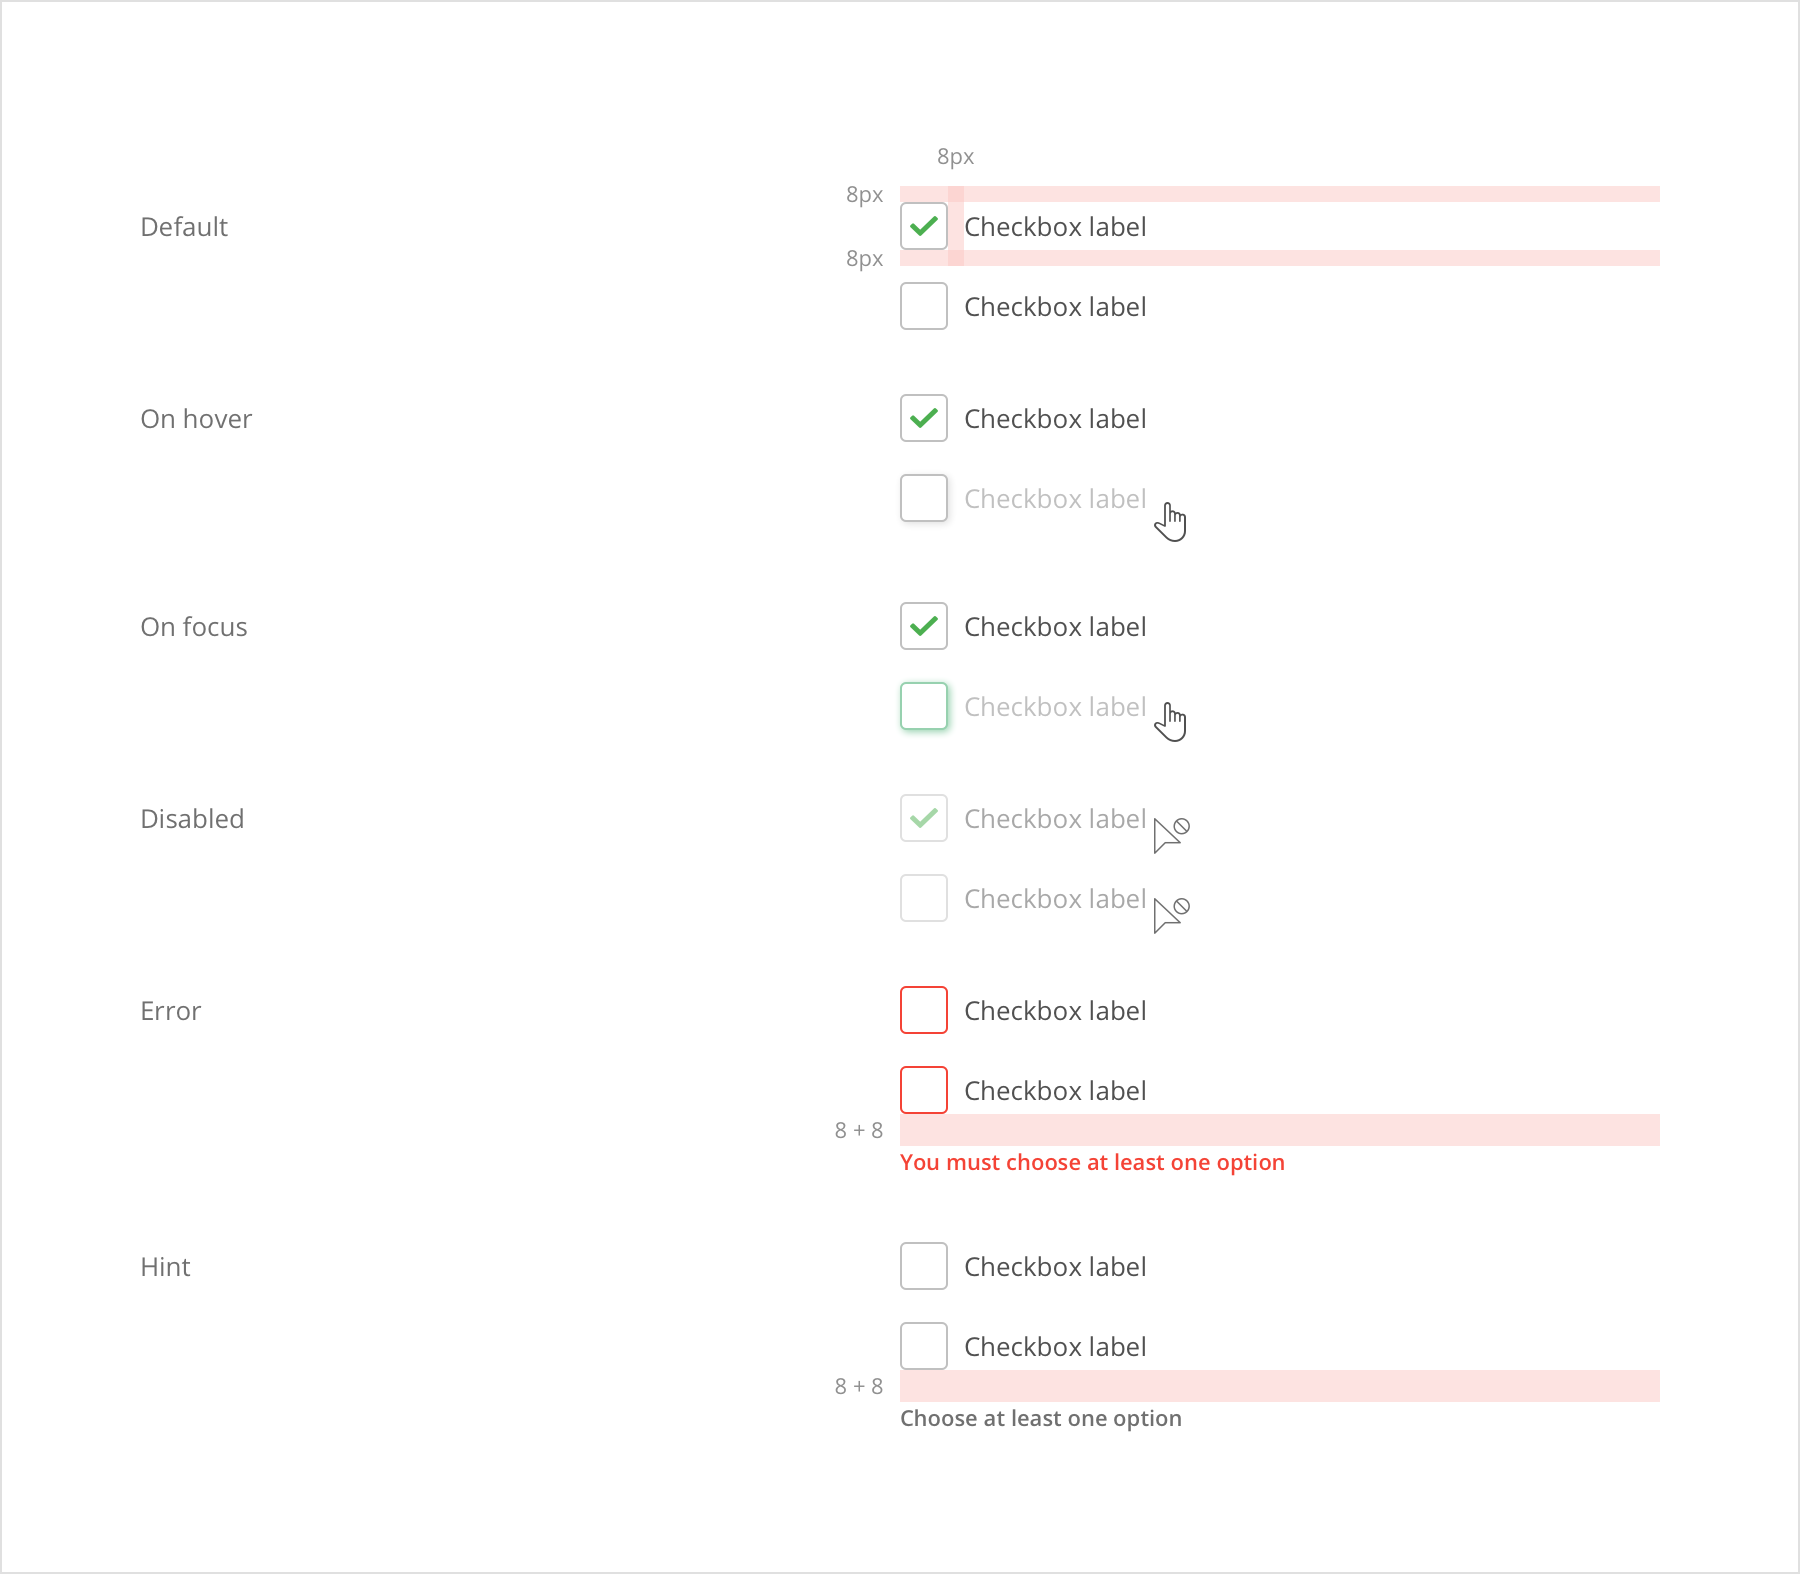
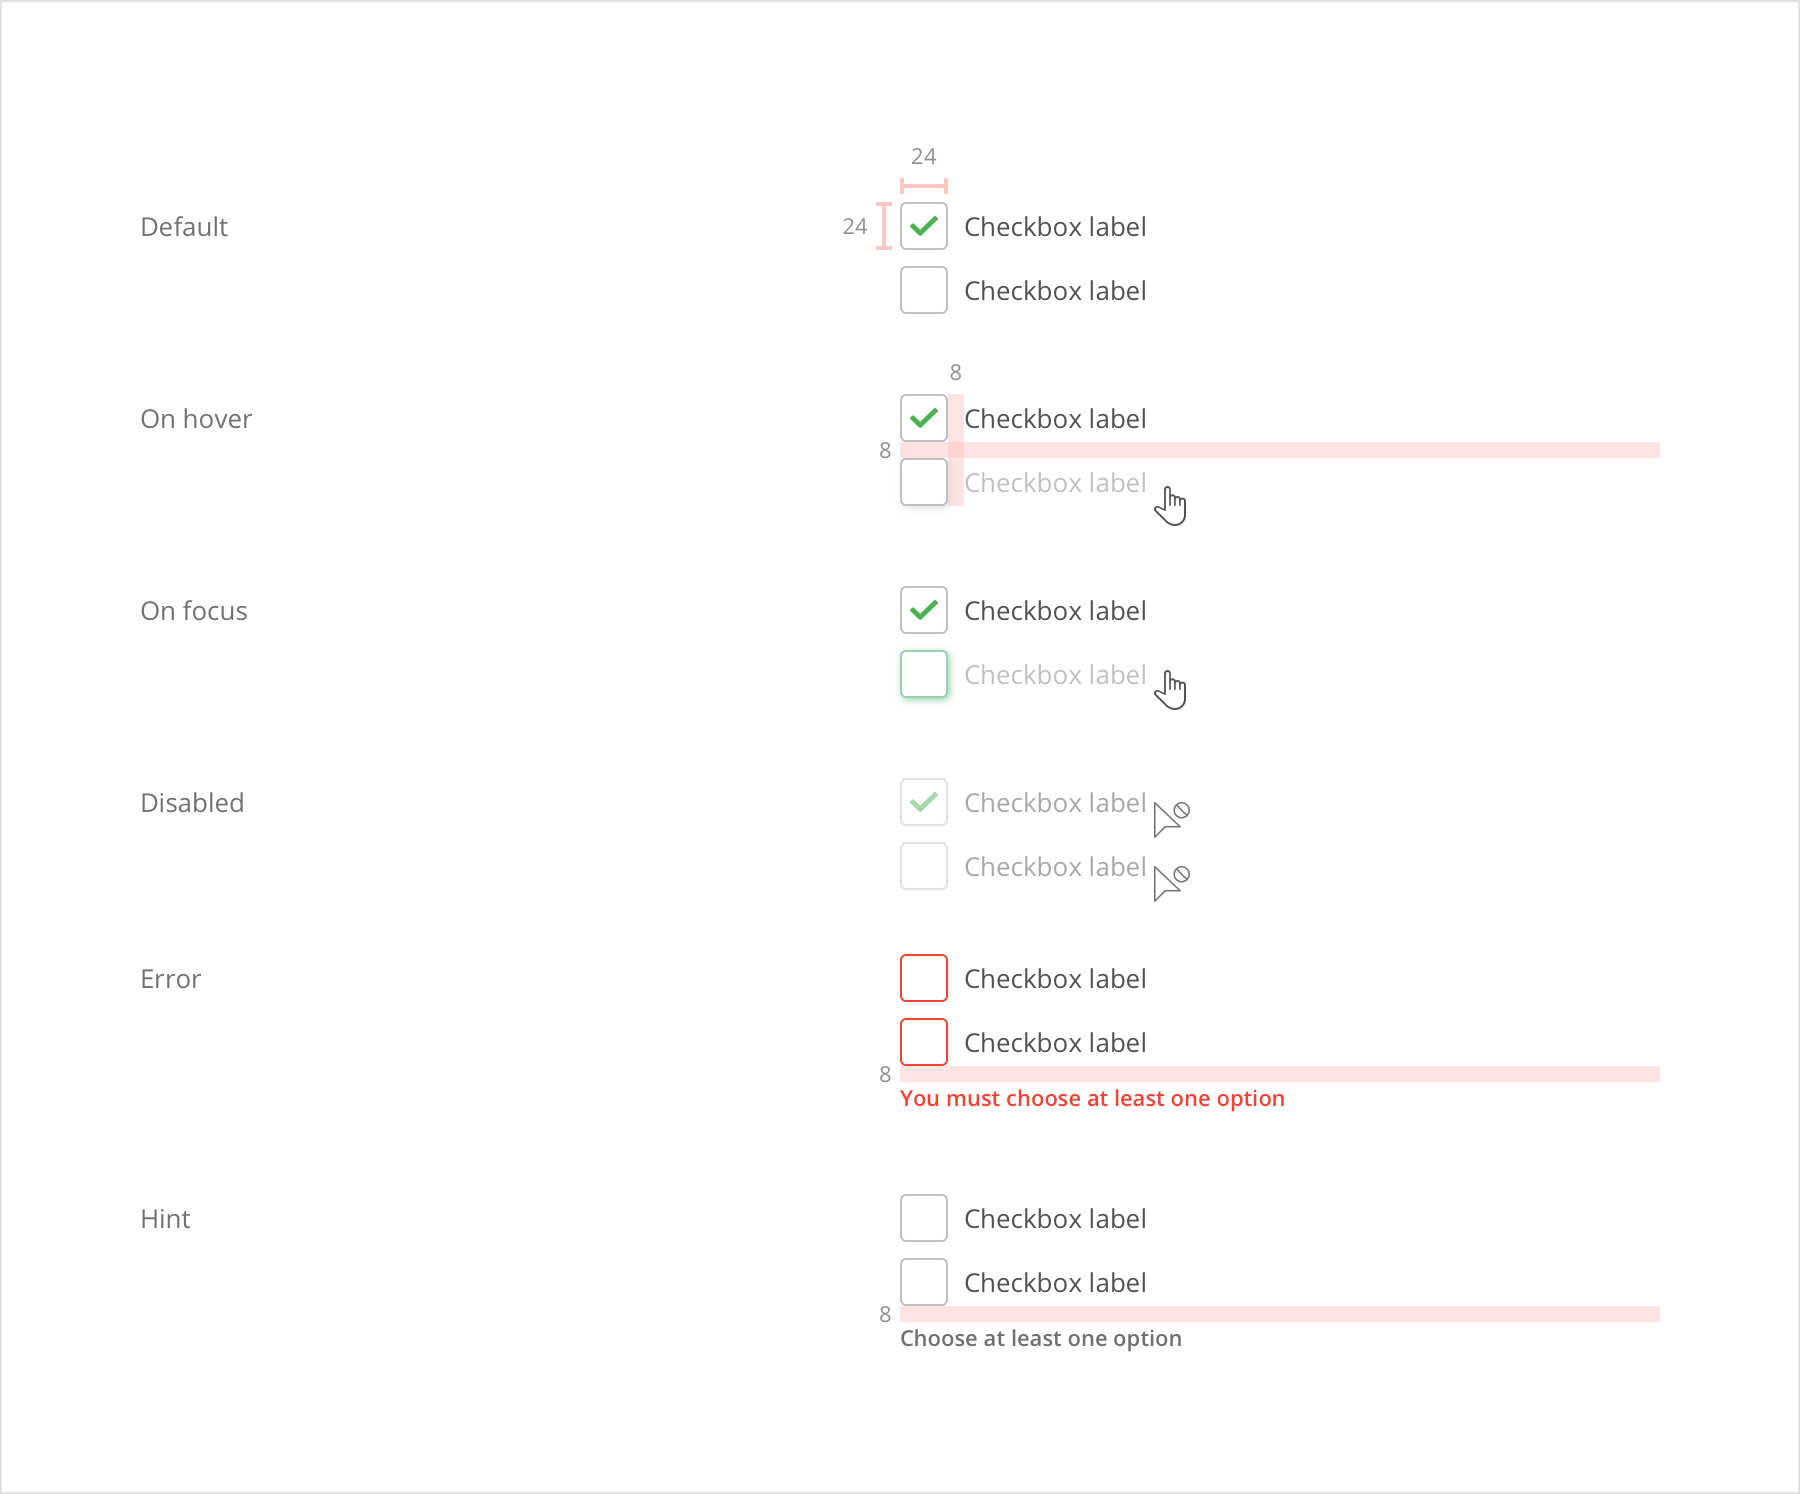
Updates atoms/checkboxes.md
Auto commit by GitBook Editor

diff --git a/atoms/checkboxes.md b/atoms/checkboxes.md
@@ -11,13 +11,6 @@ There are two types of checkboxes: **Single-select** \(without a label\) in case
 * A checkbox does not apply a setting at an instant. Instead, it’s accompanied by a submit button and takes effect after the user presses it.
 * If the instantaneous action is required, then use the [_Toggles_](/atoms/toggles.md) instead. Switches always indicate whether a setting is on or off, and the action is instant, does not require a submit button press.
 
-#### Spacing guidelines
-
-* The width and height of the checkbox base are always 24px.
-* Checkboxes have a top, right and bottom margin of 8px.
-
-![](/assets/atoms/checkboxes-spacing.png)
-
 ### Single-select
 
 Single-select checkboxes are standalone and they are used as an enable/disable action in forms but require a submit button press in order for action to take the effect.
